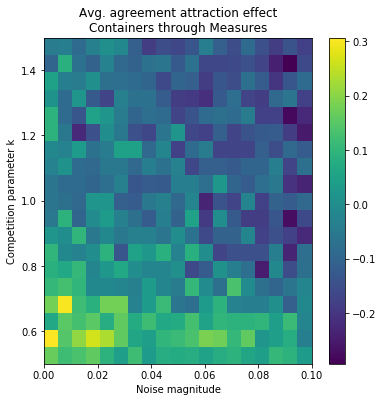
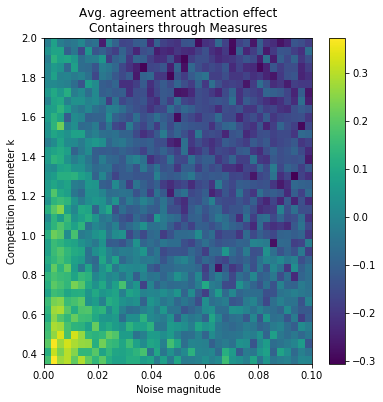
Ran a bigger sensitivity analysis and saved data. Stability analysis script is still running, though...

diff --git a/PsPartPaperModel/StabilityAnalysis01.py b/PsPartPaperModel/StabilityAnalysis01.py
@@ -9,9 +9,11 @@ Created on Mon Jul 31 10:24:38 2017
 
 import numpy as np
 from sympy import symbols, Matrix, re#, solve#, init_printing
-#from sympy.solvers.solveset import nonlinsolve
+from sympy.solvers.solveset import nonlinsolve
+#from scipy.optimize import fsolve
 
 
+nlinks = 6
 x0, x1, x2, x3, x4, x5 = symbols('x:6', real=True)
 k = symbols('k')
 sys = Matrix([x0 * (1. - x0 - k * (x1 + x3 + x5)),
@@ -22,7 +24,7 @@ sys = Matrix([x0 * (1. - x0 - k * (x1 + x3 + x5)),
               x5 * (1. - x5 - k * (x0 + x2 + x4))])
 
 jac = sys.jacobian([x0, x1, x2, x3, x4, x5])
-#genera_solns = nonlinsolve(sys, [x0, x1, x2, x3, x4, x5])
+genera_solns = nonlinsolve(sys, [x0, x1, x2, x3, x4, x5])
 
 k_range = np.linspace(-2., 2., 200)
 
@@ -59,3 +61,24 @@ for i in range(len(k_range)):
 # attractors at (I'm pretty sure) k = 1/3. Can't say much about the other
 # fixed points, but this at least is good.
 
+# Trying a numerical method
+# Issue: only approximations, so looking at eigenvals could be misleading...
+#def sys_num(x):
+#    k = 1.0
+#    x0, x1, x2, x3, x4, x5 = x
+#    dx0 = x0 * (1. - x0 - k * (x1 + x3 + x5))
+#    dx1 = x1 * (1. - x1 - k * (x0 + x2 + x4))
+#    dx2 = x2 * (1. - x2 - k * (x1 + x3 + x5))
+#    dx3 = x3 * (1. - x3 - k * (x0 + x2 + x4))
+#    dx4 = x4 * (1. - x4 - k * (x1 + x3 + x5))
+#    dx5 = x5 * (1. - x5 - k * (x0 + x2 + x4))
+#    return(dx0, dx1, dx2, dx3, dx4, dx5)
+#
+#solns = []
+#for i in range(1000):
+##    if i % 10 == 0: print(i)
+#    rand_init = np.random.uniform(-0.5, 1.5, nlinks).tolist()
+#    s = np.round(fsolve(sys_num, rand_init), 2)
+#    if not any((s == x).all() for x in solns):
+#        solns.append(s)
+#

diff --git a/PsPartPaperModel/MonteCarlo.py b/PsPartPaperModel/MonteCarlo.py
@@ -73,7 +73,8 @@ all_sents = np.exp(-np.array(all_sents))
 # Interaction matrix: specifies which links enter into WTA competitions. The
 # parameter k determines the relative strength of inhibition from other links
 # to a link's self-inhibition
-k = 0.55 # gets even better fit. Need to look at individual runs, though...
+k = 0.5 # gets even better fit. Need to look at individual runs, though...
+#k = 1.01
 # and also do a stability analysis to see if things still look the way they should
 #k = 1.1 # works
 W = np.array([[1, k, 0, k, 0, k],
@@ -88,7 +89,7 @@ tau = 0.01
 ntsteps = 10000
 noisemag = 0.001 # works!
 #nreps = 2000
-nreps = 500
+nreps = 100
 adj = 0.1
 
 # For saving final states; dims: length, N1 Type, parse type(N1, N2, other)

diff --git a/PsPartPaperModel/IndividualRuns.py b/PsPartPaperModel/IndividualRuns.py
@@ -26,7 +26,8 @@ many_N2_no = np.array([np.inf, np.inf, np.inf, 0, np.inf, 1])
 all_sents = [box_of_N2_pp, group_of_N2_pp, lot_of_N2_pp, many_N2_pp, box_of_N2_no, group_of_N2_no, lot_of_N2_no, many_N2_no]
 all_sents = np.exp(-np.array(all_sents))
 
-k = 2.
+#k = 2.
+k = 0.5
 W = np.array([[1, k, 0, k, 0, k],
               [k, 1, k, 0, k, 0],
               [0, k, 1, k, 0, k],
@@ -42,7 +43,7 @@ nreps = 200
 adj = 0.1
         
 #for sent in range(all_sents.shape[0]):
-for sent in [6]:
+for sent in [0]:
     ipt = all_sents[sent,]
     print('\tStarting sentence {}'.format(sent))
     

diff --git a/PsPartPaperModel/SensitivityAnalyses.py b/PsPartPaperModel/SensitivityAnalyses.py
@@ -144,8 +144,8 @@ def agr_attr(model_data):
 
 # Doing sensitivity
 #noise_vec = np.array([0.1, 0.05, 0.01, 0.005, 0.001, 0.0005, 0.0001])
-noise_vec = np.linspace(0.0001, 0.1, 20)
-k_vec = np.linspace(0.5, 1.5, 20)
+noise_vec = np.linspace(0.0001, 0.1, 40)
+k_vec = np.linspace(0.35, 2., 40)
 #adj_vec = np.linspace(0.0, 1.0, 100)
 adj = 0.1 # 
 #errors = np.zeros(len(adj_vec))
